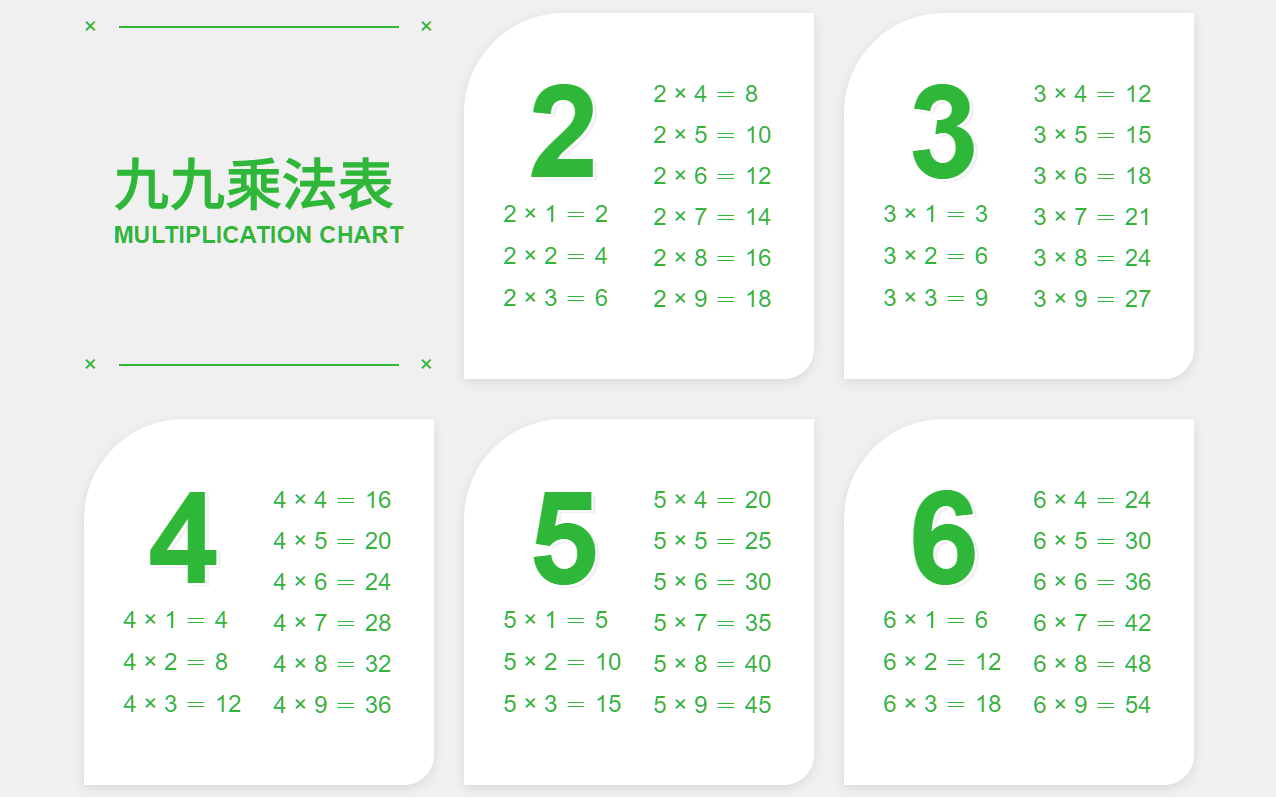
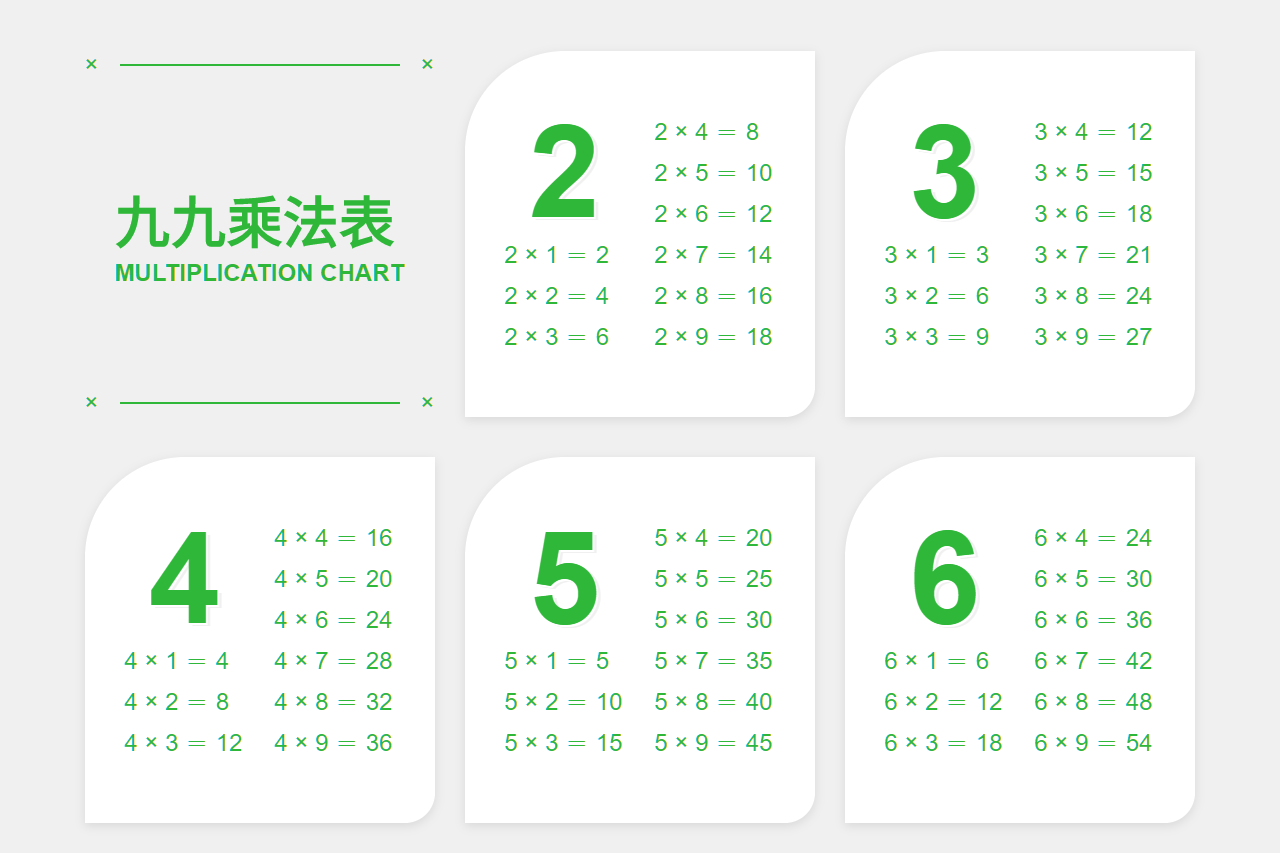
Update some details

diff --git a/01_MultiplicationChart/css/all.css b/01_MultiplicationChart/css/all.css
@@ -128,10 +128,9 @@ body {
 
 .main .card .number {
     width: 120px;
-    height: 119px;
     font-weight: bold;
     font-size: 128px;
-    line-height: 128px;
+    line-height: 123px;
     text-shadow: 1.5px 1.5px #FFF,4px 3px #F0F0F0;
     display: flex;
     justify-content: center;
